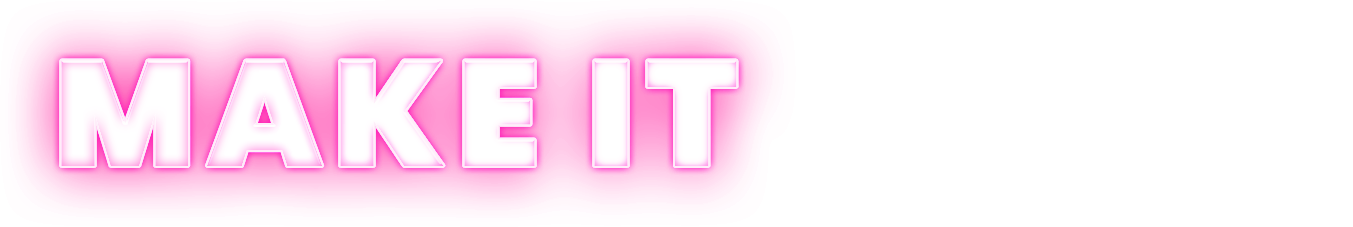
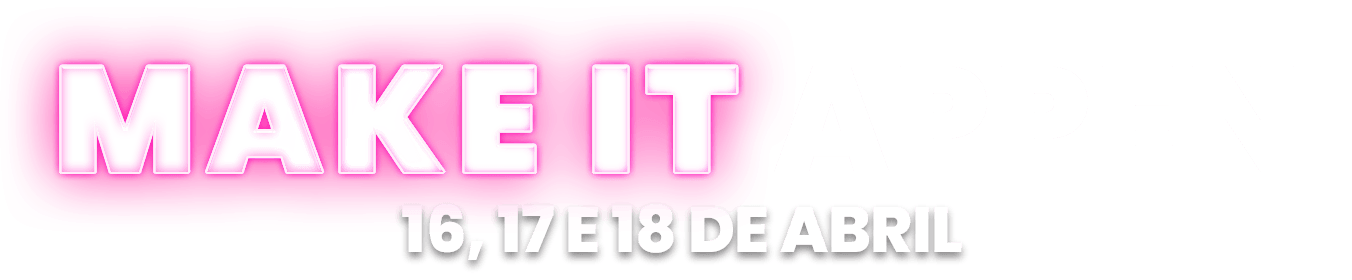
date , partners added

Changed region(s): [[0.0311, 0.185, 0.7145, 0.9559], [0.4349, 0.185, 0.5592, 0.3084], [0.466, 0.3084, 0.5592, 0.4317]]

diff --git a/index.html b/index.html
@@ -38,6 +38,7 @@
             <a href="about.html">ABOUT US</a>
             <a href="past.html">PAST</a>
             <a href="faq.html">FAQ</a>
+            <a href="#partners">PARTNERS</a>
             <img id="tigre_mobile" src="images/tigre_mobile.svg" alt="tiger">
           </div>
 
@@ -50,7 +51,7 @@
 <main>
       <div id="scene" class="hero">
         <img  data-depth="0"src="images/make-it-appen.png" id="make" alt="makeitappen"> 
-        <img  data-depth="0"src="images/makeitappen_mobile.png" id="makeitappen_mobile" alt="makeit"> 
+        <img  data-depth="0"src="images/datasMobile.png" id="makeitappen_mobile" alt="makeit"> 
         <img data-depth="0.5" src="images/tigre1.png" id="tiger1" alt="tigre">
         <img data-depth="0" src="images/tigre2.png" id="tiger2" alt="tigre">
       </div>
@@ -129,6 +130,43 @@
         </div>
       </div>
     </section>
+<div id="partners">
+    <section class="section partner">
+
+      <div class="cont">
+        <h1>Partners</h1>
+
+        <div class="content-text">
+          
+          <div class="partners">
+            <h2>Diamond</h2>
+              <div class="partner-section diamond">
+              <a  href="https://gulbenkian.pt" target="_blank" ><img src="images/partners_index/FCG.png"></a>
+            </div>
+              <h2>Gold</h2>
+              <div class="partner-section gold">
+              <a href="https://redlight.dev/" target="_blank"><img src="images/partners_index/RedLight-2.png"></a>
+            </div>
+              <h2>Silver</h2>
+              <div class="partner-section silver">
+              <a class="silver" href="https://web.imaginarycloud.com" target="_blank"><img src="images/partners_index/ImaginaryCloud.png"></a>
+              <a class="silver" href="https://flag.pt" target="_blank"><img src="images/partners_index/Flag.png"></a>
+              <a class="silver" href="https://pt.goodbarber.com" target="_blank"><img src="images/partners_index/GoodBarber.png"></a>
+            </div>
+              <h2>Bronze</h2>
+              <div class="partner-section bronze">
+              <a class="bronze" href="https://subvisual.com" target="_blank"><img src="images/partners_index/Subvisual-2.png"></a>
+            </div>
+            </div>
+        </div>
+
+
+      </div>
+
+    </section>
+  </div>
+
+
 
     <section class="section half">
       <div class="cont">

diff --git a/css/index.css b/css/index.css
@@ -68,7 +68,13 @@
 
 .faq{
   display: flex;
-  margin-top:25vh;
+  margin-top: 20vh;
+}
+
+.partner{
+  min-height: 80vh;
+  margin-top: 25vh;
+
 }
 
 .cont{
@@ -87,6 +93,20 @@
 .content-text p, .cont_faq p {
   font-weight: 600;
 }
+
+/* PARTNERS */
+.partners h2{
+  font-size: 2rem;
+  margin-top: 5%;
+  margin-bottom: 3%;
+}
+.partner-section{
+  display: flex;
+}
+.partner-section img:hover{
+  cursor: pointer;
+}
+
 
 /*TITULOS OUTLINE*/
 .outline {
@@ -216,7 +236,7 @@
   background-image: url("../images/background1_mobile.png");
 }
 .lines_background {
-  background-image: url("../images/background_index_mobile.png");
+  background-image: url("../images/Fundo.png");
 }
 
 #make{
@@ -225,8 +245,8 @@
 #makeitappen_mobile{
   opacity: 1;
   position: absolute;
-  top:70% !important;
-  left: 8vw !important;
+  top:65% !important;
+  left: 0 !important;
   min-width: 70vw;
 }
 #tiger1 {
@@ -251,8 +271,16 @@
 .faq{
   margin-top: 5vh;
 }
+.partner{
+  min-height:60vh;
+  margin-top: 20vh;
+
+}
 .cont h1{
   font-size: 1.9em;
+}
+.content-text h2{
+  font-size: 1.3em;
 }
 
 .outline{
@@ -285,6 +313,22 @@ width:40vw;
 .cont_faq{
   padding:2vh 4vw;
 }
+.partner-section{
+  display: block;
+}
+.diamond img{
+  width: 80%;
+}
+.gold img{
+  width:70%;
+}
+.silver img{
+  width:60%;
+}
+.bronze img{
+  width:50%
+}
+
 
 #mc_embed_signup_scroll {
   flex-direction: column;
@@ -332,6 +376,10 @@ width:40vw;
 }
 .half{
   min-height:35vh;
+}
+.partner{
+  min-height: 70vh;
+
 }
 #mc_embed_signup_scroll {
   flex-direction: row;

diff --git a/faq.html b/faq.html
@@ -37,6 +37,8 @@
             <a href="about.html">ABOUT US</a>
             <a href="past.html">PAST</a>
             <a href="faq.html">FAQ</a>
+            <a href="index.html">PARTNERS</a>
+
             <img id="tigre_mobile" src="images/tigre_mobile.svg" alt="tiger">
            </div>
           <img id="shift" onclick="window.location.href = 'index.html';" src="images/logo_c.png" alt="logo">

diff --git a/past.html b/past.html
@@ -38,6 +38,8 @@
             <a href="about.html">ABOUT US</a>
             <a href="past.html">PAST</a>
             <a href="faq.html">FAQ</a>
+            <a href="faq.html">PARTNERS</a>
+
             <img id="tigre_mobile" src="images/tigre_mobile.svg" alt="tiger">
           </div>
           <img id="shift" onclick="window.location.href = 'index.html';" src="images/logo_c.png" alt="logo">

diff --git a/about.html b/about.html
@@ -37,6 +37,8 @@
           <a href="about.html">ABOUT US</a>
           <a href="past.html">PAST</a>
           <a href="faq.html">FAQ</a>
+          <a href="faq.html">PARTNERS</a>
+
           <img id="tigre_mobile" src="images/tigre_mobile.svg" alt="tiger">
         </div>
         <img id="shift" onclick="window.location.href = 'index.html';" src="images/logo_c.png" alt="logo">

diff --git a/css/base.css b/css/base.css
@@ -98,7 +98,10 @@ list-style-type: none;
 }
 
 #menu a:nth-child(2) {
-    margin: 0 2.5rem;
+    margin-left: 2.5rem;
+}
+#menu a:nth-child(3) {
+  margin: 0 2.5rem;
 }
 
 #taikai:hover{
